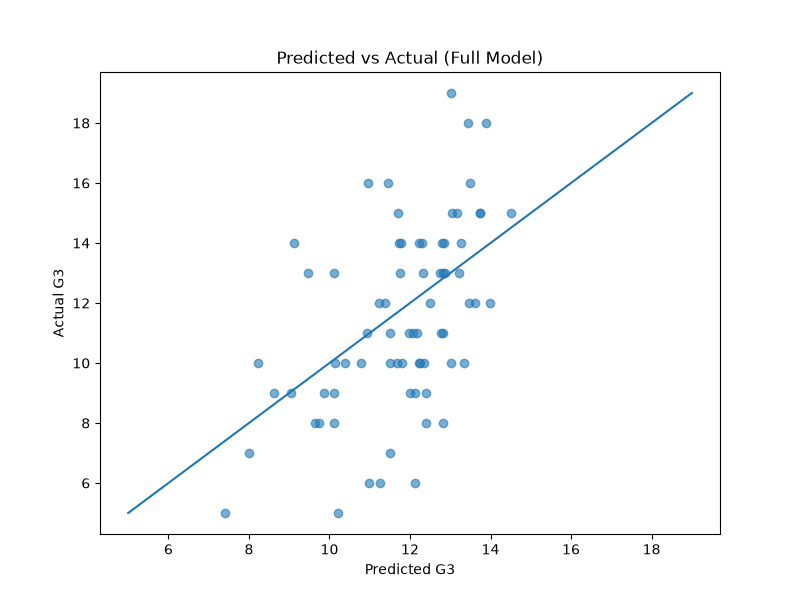
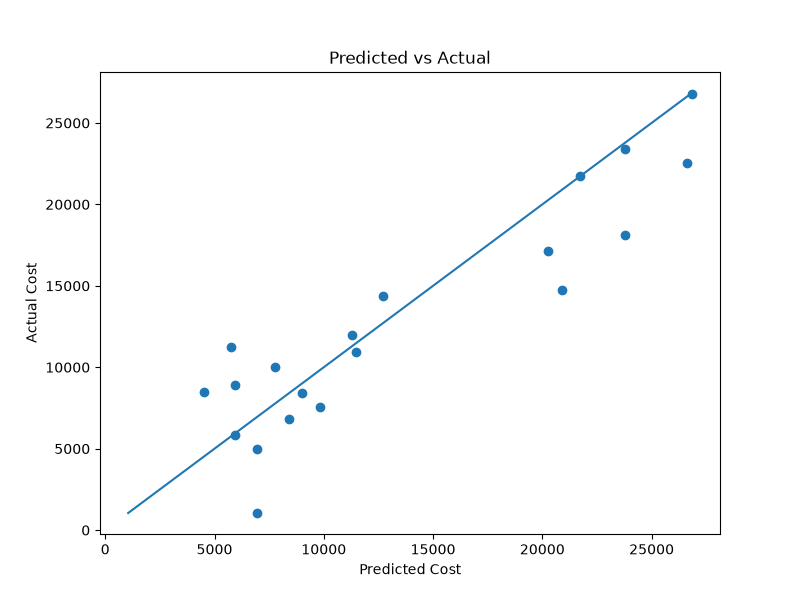
updates

diff --git a/assignments_02/warmup_02.py b/assignments_02/warmup_02.py
@@ -16,7 +16,7 @@ salary = np.array([45000, 50000, 60000, 75000, 90000, 120000])
 linear_model1 = LinearRegression()
 linear_model1.fit(years, salary)
 
-m = linear_model1.coef_
+m = linear_model1.coef_[0]
 b = linear_model1.intercept_
 
 years4 = m*4 + b
@@ -31,7 +31,7 @@ print(f"Y-intercept: {b}")
 
 x = np.array([10, 20, 30, 40, 50]).reshape(-1,1)
 
-# I learned scikit-learn needs the x to be 2d because it makes it into a column form which that model recognizes and can infer the shape of the input data
+# The function is built to handle multi-linear such as having multiple features so easier to have the assumed to be samples and specify the amount of features as shown only one column.
 
 # scikit-learn API Q3
 
@@ -51,17 +51,19 @@ plt.scatter(
     c=labels,
     cmap='viridis'
 )
+plt.xlabel("X axis")
+plt.ylabel("Y axis")
 
 plt.scatter(
     centers[:, 0],
     centers[:, 1],
-    c='red',
+    c='black',
     s=200,
     marker='X'
 )
 
-plt.show()
 plt.savefig(os.path.join("outputs", "kmeans_clusters.png"))
+plt.show()
 
 
 
